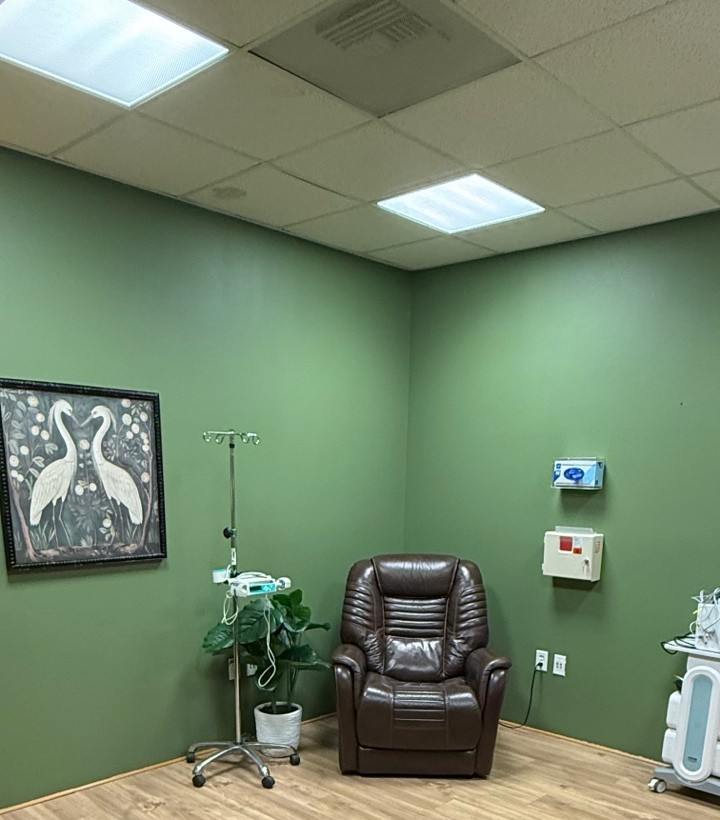
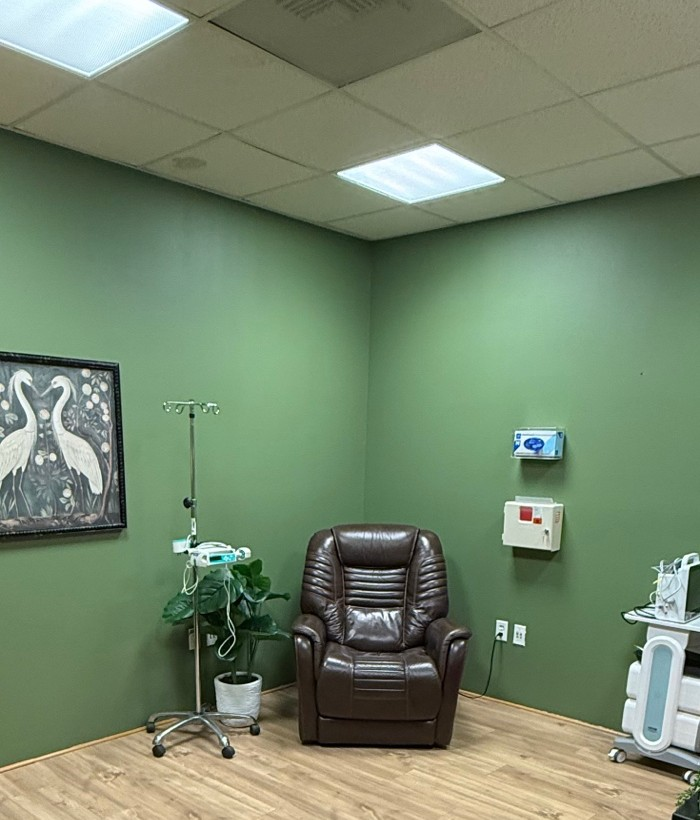
GLP-1 pages: add fit person lifestyle image; re-crop clinic chair to center on chair

diff --git a/client/src/pages/WeightManagement.tsx b/client/src/pages/WeightManagement.tsx
@@ -6,7 +6,7 @@ import { CheckCircle, ArrowRight, Stethoscope, ClipboardList, TrendingDown, Refr
 import Navbar from "@/components/Navbar";
 import Footer from "@/components/Footer";
 
-const GLP1_IMG = "/assets/gen_meditation_nature.jpg";
+const GLP1_IMG = "/assets/gen_glp_fit_person.jpg";
 const FLOWERS_IMG = "/assets/gen_flowers_hill.jpg";
 
 export default function WeightManagement() {

diff --git a/client/src/pages/Home.tsx b/client/src/pages/Home.tsx
@@ -10,7 +10,7 @@ import Footer from "@/components/Footer";
 
 const HERO_IMG = "/assets/gen_flowers_hill.jpg";
 const KETAMINE_IMG = "/assets/clinic-chair.jpeg";
-const GLP1_IMG = "/assets/gen_meditation_nature.jpg";
+const GLP1_IMG = "/assets/gen_glp_fit_person.jpg";
 const COLLAB_IMG = "/assets/gen_lighthouse_harbor.jpg";
 
 export default function Home() {
